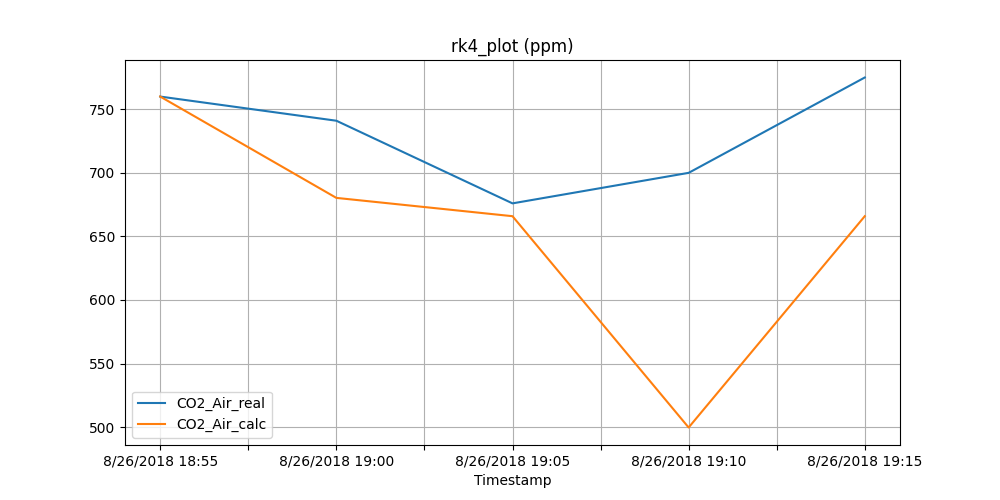
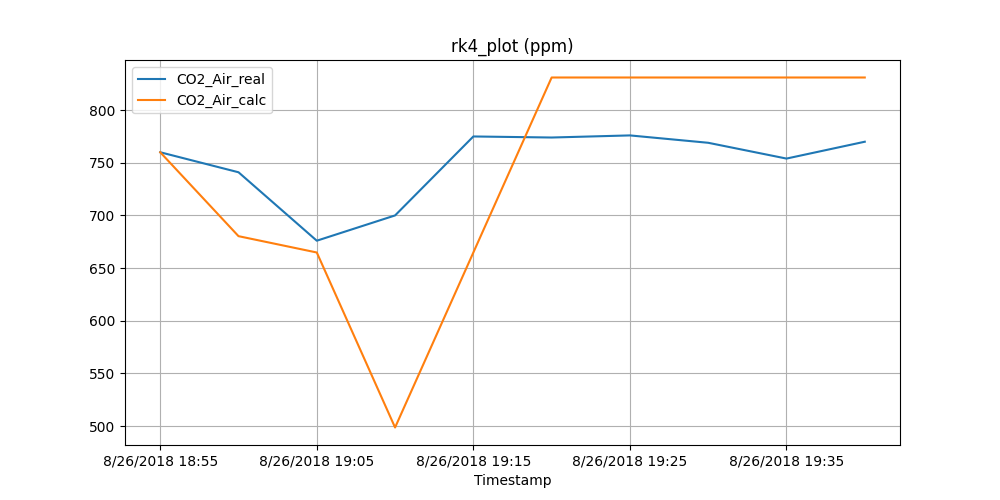
fix to include T_Can and T_Top every update

diff --git a/test.py b/test.py
@@ -28,7 +28,7 @@ class Environment:
     CO2_Air = 1296.01
     CO2_Top = 1296.01
     T_Air = 18.9 + 273.15
-    T_Top = T_Air + 1
+    T_Top = T_Air + delta_T
     T_Can = T_Top
     Rh = 81.6 /100
 
@@ -237,9 +237,11 @@ def update(env1: Environment, row):
     if not pandas.isnull(row["WindSpeed"]):
         env1.v_Wind = row["WindSpeed"]
     env1.U_Roof = (env1.Vent_Lee + env1.Vent_Wind)/2
+    env1.T_Top = env1.T_Air + env1.delta_T
+    env1.T_Can = env1.T_Top
 
 def run_Euler(env1: Environment, data_set,comparison_table,output_name):
-    for i in range(5):         #for each 5 minutes
+    for i in range(10):         #for each 5 minutes
         row = data_set.iloc[i]
         #print("New environment:",row)
         update(env1,row)
@@ -261,7 +263,7 @@ def run_Euler(env1: Environment, data_set,comparison_table,output_name):
     comparison_table.to_excel(output_name)
 
 def run_rk4(env1: Environment, data_set,comparison_table,output_name):
-    for i in range(5):         #for each 5 minutes
+    for i in range(10):         #for each 5 minutes
         row = data_set.iloc[i]
         #print("New environment:",row)
         update(env1,row)
@@ -290,12 +292,18 @@ if __name__ == '__main__':
     env2.CO2_Air = 770
     env2.CO2_Top = 770
     env2.T_Air = 292.05
+    env2.T_Top = 293.05
+    env2.T_Out = 283.15
+    env2.T_Can = 293.05
     env2.Rh = 0.816
-    env2.Vent_Lee = 0
-    env2.Vent_Wind = 0'''
+    env2.U_Roof = 0
+    env2.U_Th_Scr = 0.95
+    env2.U_Ext_CO2 = 0
+    env2.v_Wind = 2
+    print(dx(env2))'''
 
     data_set = pandas.read_csv("environment.csv",usecols=["Timestamp","Temp","Rh","Co2","VentLee","VentWind","EnergyCurtain","Co2ActuationRegulation","OutsideTemp","WindSpeed"])
-    data_set = data_set.iloc[216:221,]
+    data_set = data_set.iloc[216:226,]
     data_set = data_set.reset_index(drop = True)
     print(data_set)
     comparison_table = pandas.DataFrame(columns = ["Timestamp","CO2_Air_real","CO2_Air_calc"])
